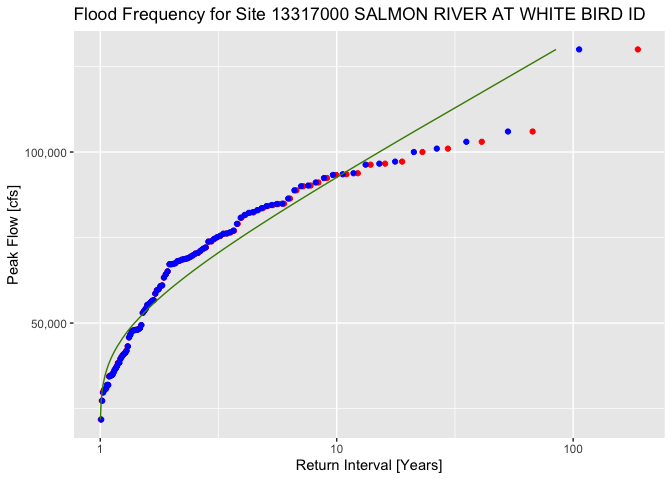
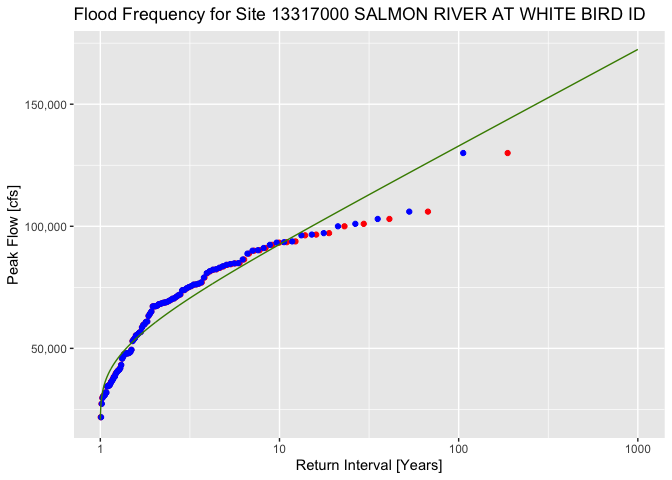
update gumbel calc

diff --git a/FloodFrequencyAnalysis_Ex.md b/FloodFrequencyAnalysis_Ex.md
@@ -54,15 +54,17 @@ s_x <- sd(q_sort)
 alpha <- sqrt(6)*s_x / pi
 u <- xbar - 0.5772*alpha
 
-p_e_gumbel <- 1 - exp(-exp(-(q_sort - u)/alpha))
-t_gumbel <- 1 / p_e_gumbel 
+p_e_gumbel <- seq(from = 0.001, to = 0.999, by = 0.001)
+t_gumbel <- 1 / (1 - p_e_gumbel)
+
+q_gumbel = u - alpha*log(-log(p_e_gumbel)) 
 ```
 
 ``` r
 p2 <- ggplot() + 
   geom_point(data = NULL, aes(t_gringorten,q_sort), color='red') + 
   geom_point(data = NULL, aes(t_weibull,q_sort), color='blue') + 
-  geom_line(data = NULL, aes(t_gumbel,q_sort), color='chartreuse4') +
+  geom_line(data = NULL, aes(t_gumbel,q_gumbel), color='chartreuse4') +
   scale_x_continuous(trans = 'log10') + 
   scale_y_continuous(labels = comma) +
   labs(title = paste('Flood Frequency for Site',site_id, station_nm), 
